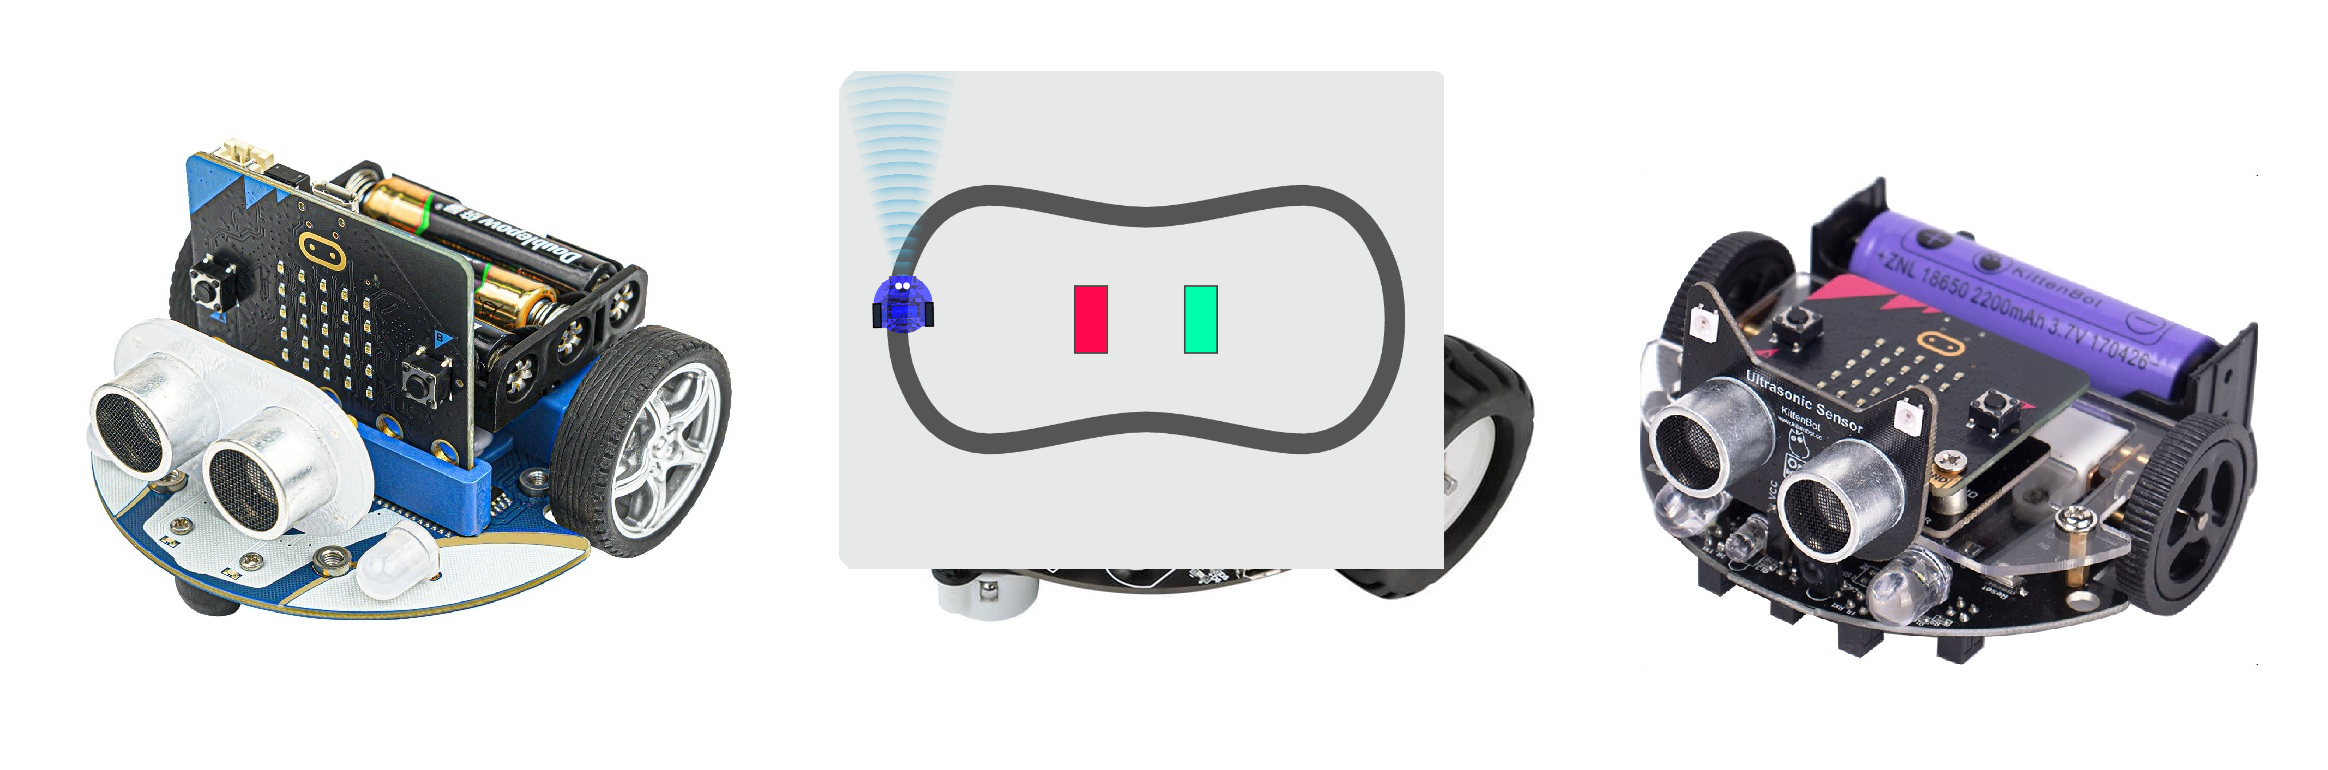
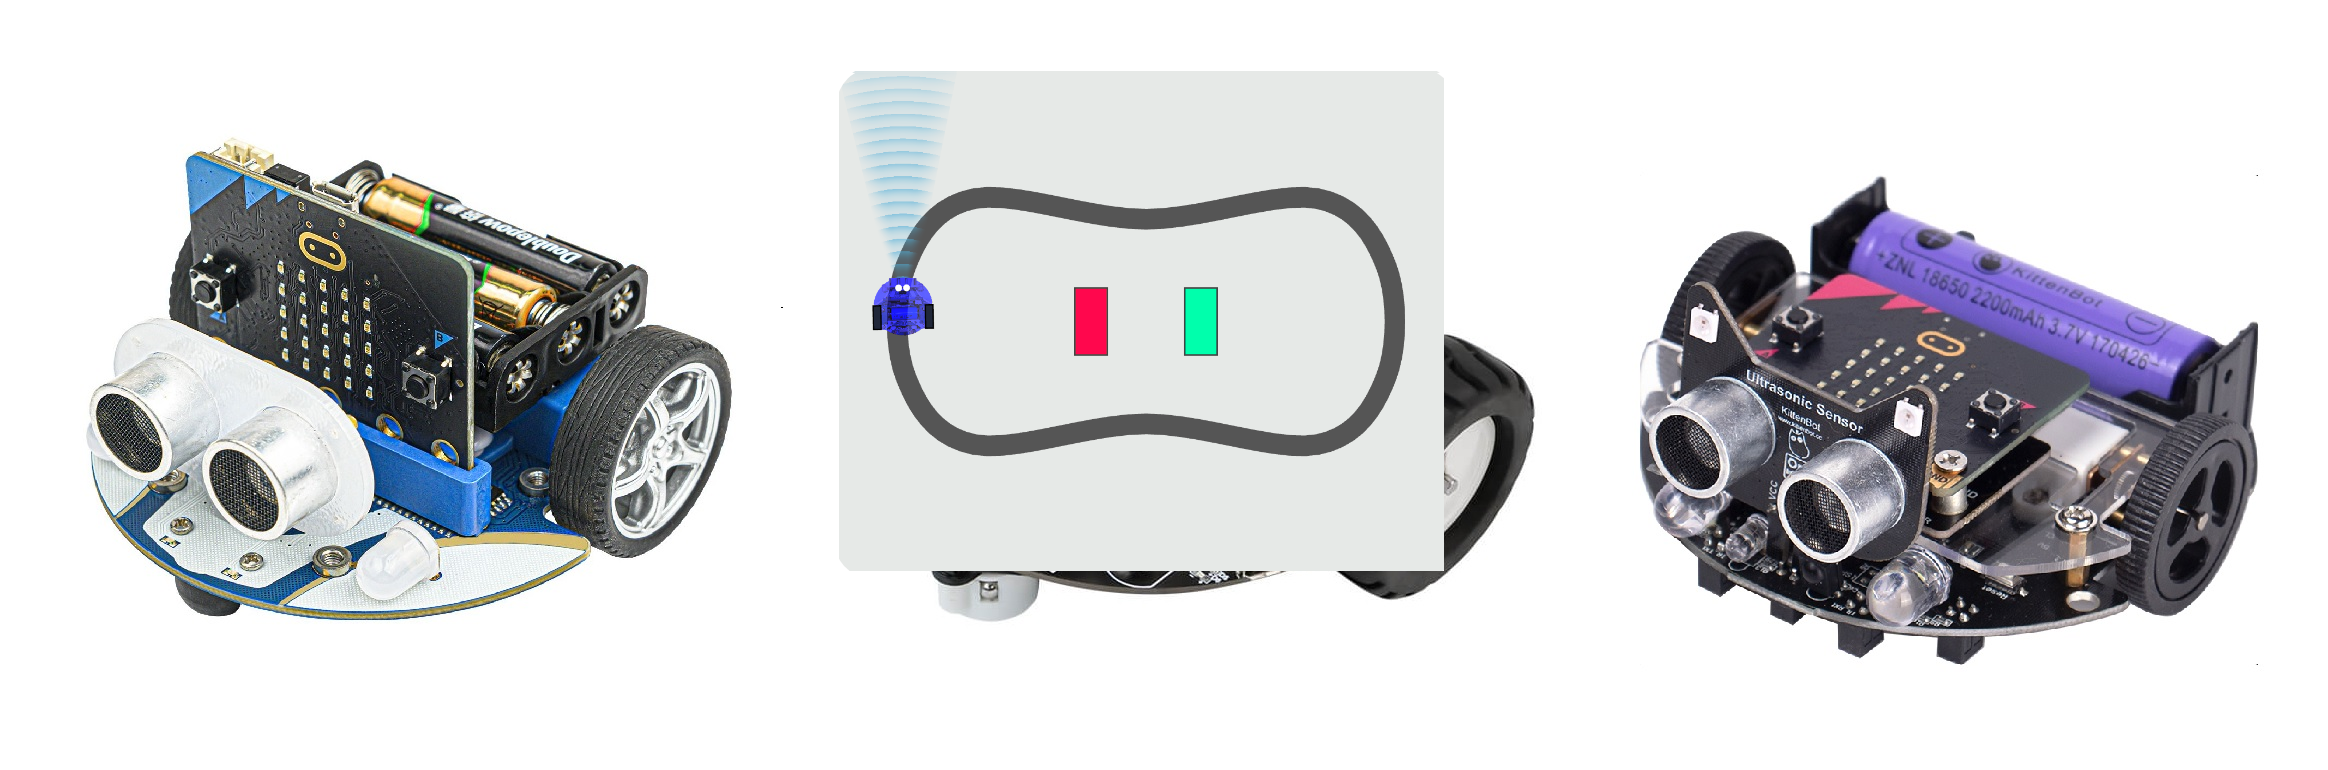
fix image

Changed region(s): [[0.3711, 0.0935, 0.5876, 0.3117], [0.4021, 0.5299, 0.5876, 0.5922], [0.3711, 0.3429, 0.4021, 0.4364]]

diff --git a/README.md b/README.md
@@ -6,7 +6,7 @@ This library is compatible with micro:bit V2 and V1. However, the code space in 
 
 > The library is still in beta and is subject to changes.
 
-![3 micro:bit robots](https://microsoft.github.io/microbit-robot/assets/images/robots-sim.jpg)
+![3 micro:bit robots](https://microsoft.github.io/microbit-robot/assets/images/robots.jpg)
 
 -   [DFRobot Maqueen](#dfrobot-maq)
 -   [DFRobot Maqueen Plus](#dfrobot-maq-plus)
